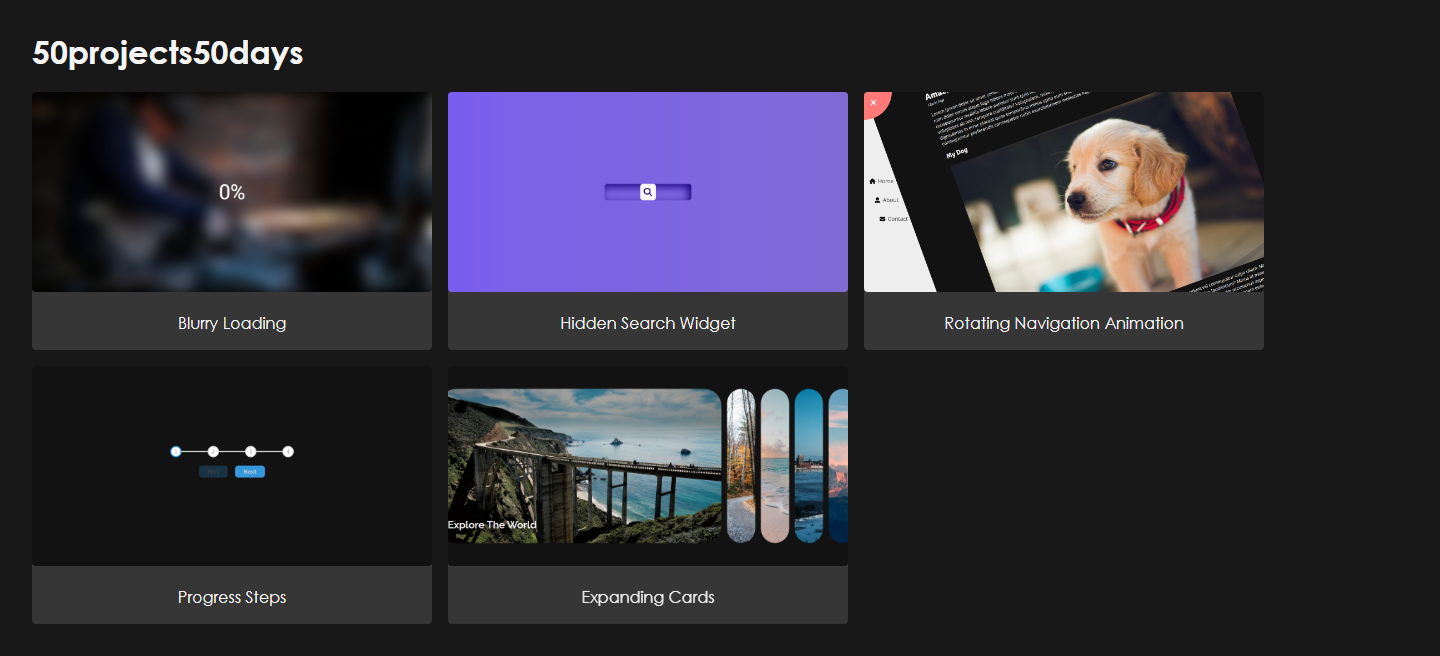
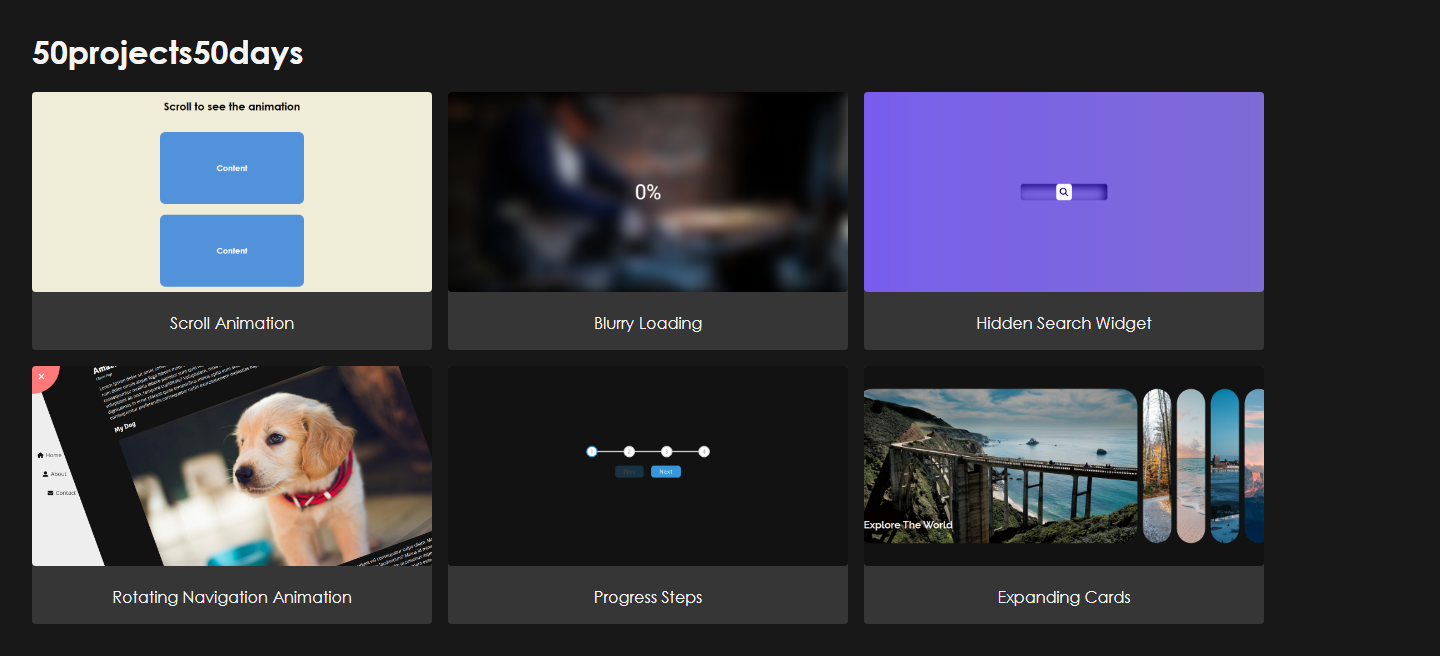
add scroll-animation

diff --git a/index.html b/index.html
@@ -95,6 +95,19 @@
             </figure> -->
             <figure>
                 <a
+                    href="https://rehberbey.github.io/50projects50days/scroll-animation/views/index.html"
+                    target="_blank"
+                    rel="noopener noreferrer"
+                >
+                    <img
+                        src="./scroll-animation/src/public/image/screenshot.png"
+                        alt="Scroll Animation"
+                    />
+                    <figcaption>Scroll Animation</figcaption>
+                </a>
+            </figure>
+            <figure>
+                <a
                     href="https://rehberbey.github.io/50projects50days/blurry-loading/views/index.html"
                     target="_blank"
                     rel="noopener noreferrer"

diff --git a/.github/README.md b/.github/README.md
@@ -13,7 +13,7 @@ Bu çalışmalar, kendimi geliştirmeme ne kadar yarıyorsa; bir o kadar da beni
 | 03  | [Rotating Navigation Animation](https://github.com/rehberbey/50projects50days/tree/master/rotating-nav-animation)         | [Live Demo](https://rehberbey.github.io/50projects50days/rotating-nav-animation/views/index.html)       |
 | 04  | [Hidden Search Widget](https://github.com/rehberbey/50projects50days/tree/master/hidden-search)                           | [Live Demo](https://rehberbey.github.io/50projects50days/hidden-search/views/index.html)                |
 | 05  | [Blurry Loading](https://github.com/rehberbey/50projects50days/tree/master/blurry-loading)                                | [Live Demo](https://rehberbey.github.io/50projects50days/blurry-loading/views/index.html)               |
-| 06  | ❌ [Scroll Animation](https://github.com/rehberbey/50projects50days/tree/master/scroll-animation)                         | [Live Demo](https://rehberbey.github.io/50projects50days/scroll-animation/views/index.html)             |
+| 06  | [Scroll Animation](https://github.com/rehberbey/50projects50days/tree/master/scroll-animation)                            | [Live Demo](https://rehberbey.github.io/50projects50days/scroll-animation/views/index.html)             |
 | 07  | ❌ [Split Landing Page](https://github.com/rehberbey/50projects50days/tree/master/split-landing-page)                     | [Live Demo](https://rehberbey.github.io/50projects50days/split-landing-page/views/index.html)           |
 | 08  | ❌ [Form Wave](https://github.com/rehberbey/50projects50days/tree/master/form-input-wave)                                 | [Live Demo](https://rehberbey.github.io/50projects50days/form-input-wave/views/index.html)              |
 | 09  | ❌ [Sound Board](https://github.com/rehberbey/50projects50days/tree/master/sound-board)                                   | [Live Demo](https://rehberbey.github.io/50projects50days/sound-board/views/index.html)                  |
